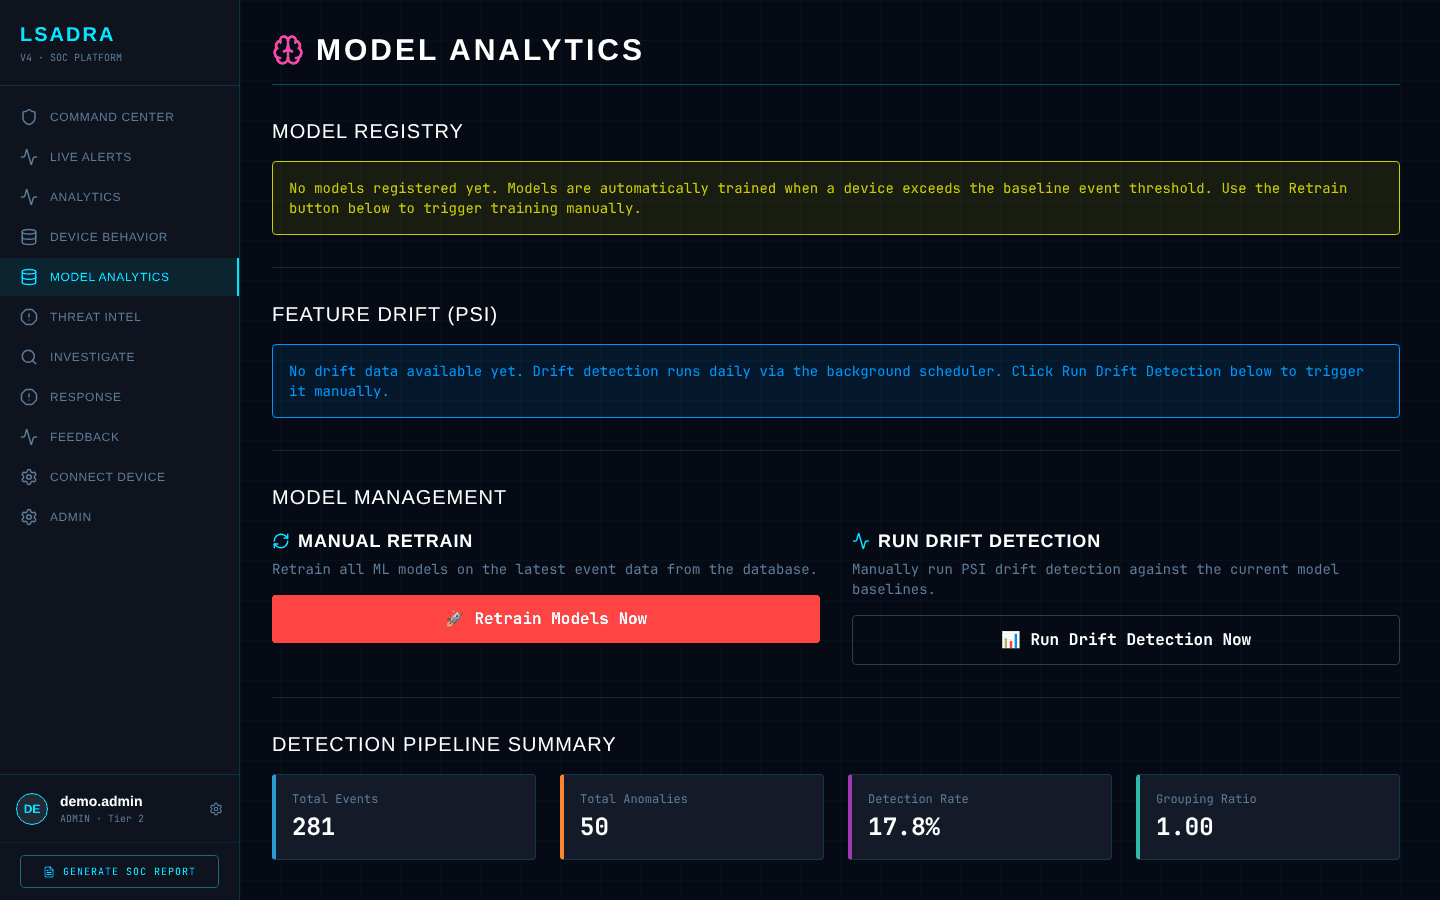
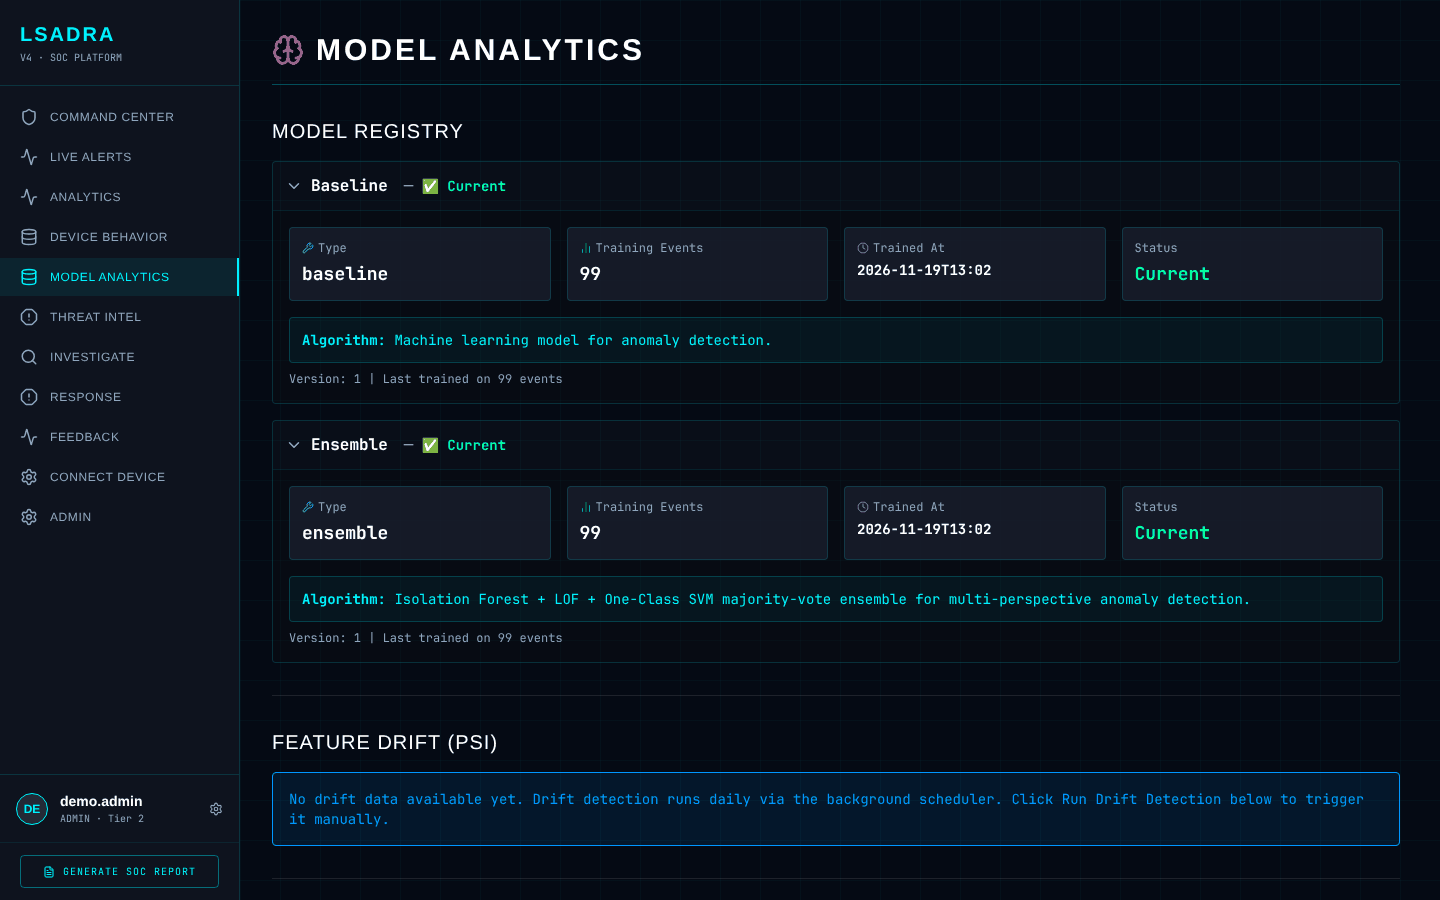
docs: show a trained model on the Model Analytics screenshot
With #158 the first training run on demo data promotes a model, so retake the
screenshot and drop the README note about the rejected run.

Claude-Session: https://claude.ai/code/session_013hvzU9MtU99dom3KQZ1H2Z

diff --git a/README.md b/README.md
@@ -197,7 +197,7 @@ Every enrolled device grouped by platform, with its status. Select devices and *
 
 <img src="docs/screenshots/model-analytics.png" alt="Model Analytics" width="720"/>
 
-The model registry: which detection models are trained, on how many events, and when. A trained model replaces the live one only if it passes the canary check in [Model integrity and training](#model-integrity-and-training). On the demo data alone the first candidate fails that check, so the registry stays empty, as shown here; detection still runs, and its rules raise the alerts shown on the other pages. Further down are feature drift (PSI), which the scheduler computes daily and you can trigger by hand, and a summary of the detection pipeline.
+The model registry: which detection models are trained, on how many events, and when. A trained model replaces the live one only if it passes the canary check in [Model integrity and training](#model-integrity-and-training). With the demo data loaded, the first automatic training run promotes a baseline and an ensemble model, as shown here (the labelled attack events are left out of training). Further down are feature drift (PSI), which the scheduler computes daily and you can trigger by hand, and a summary of the detection pipeline.
 
 ### Connect Device
 
